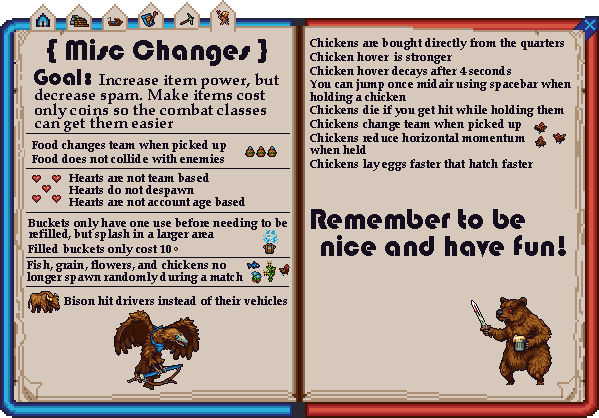
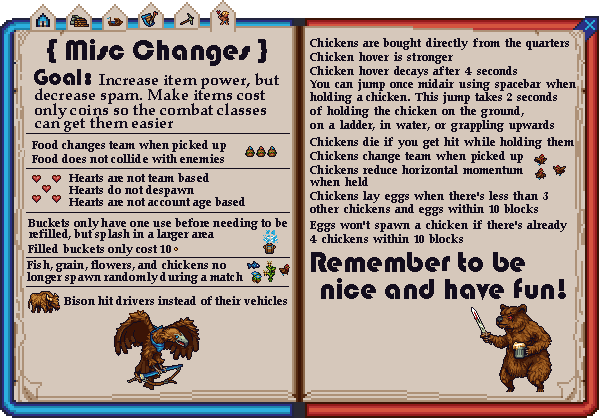
Chicken Jump Nerf
Chicken jump now takes 2 seconds of recharging. No longer recharges when in inventory

Changed region(s): [[0.5109, 0.0933, 0.9616, 0.933]]

diff --git a/README.md b/README.md
@@ -529,8 +529,7 @@ DISCLAIMER: Developed without compatibility with other mods in mind, so there's 
 - You can press `s` to not hover while holding a chicken
 - Can now jump once midair using space
     - Jump resets wall climb as well
-    - Recharges when on the ground, on a ladder, or in water 20 ticks after the last jump
-	- Grapple resets jump when pulling you upwards
+    - Recharges after 2 seconds when holding the chicken on the ground, on a ladder, in water, or grappling upwards
 - Dies if player holding it takes damage from an enemy
 - Max horizontal speed decreased with strong decay for speeds above threshold while in the air
 - Can now be burned
